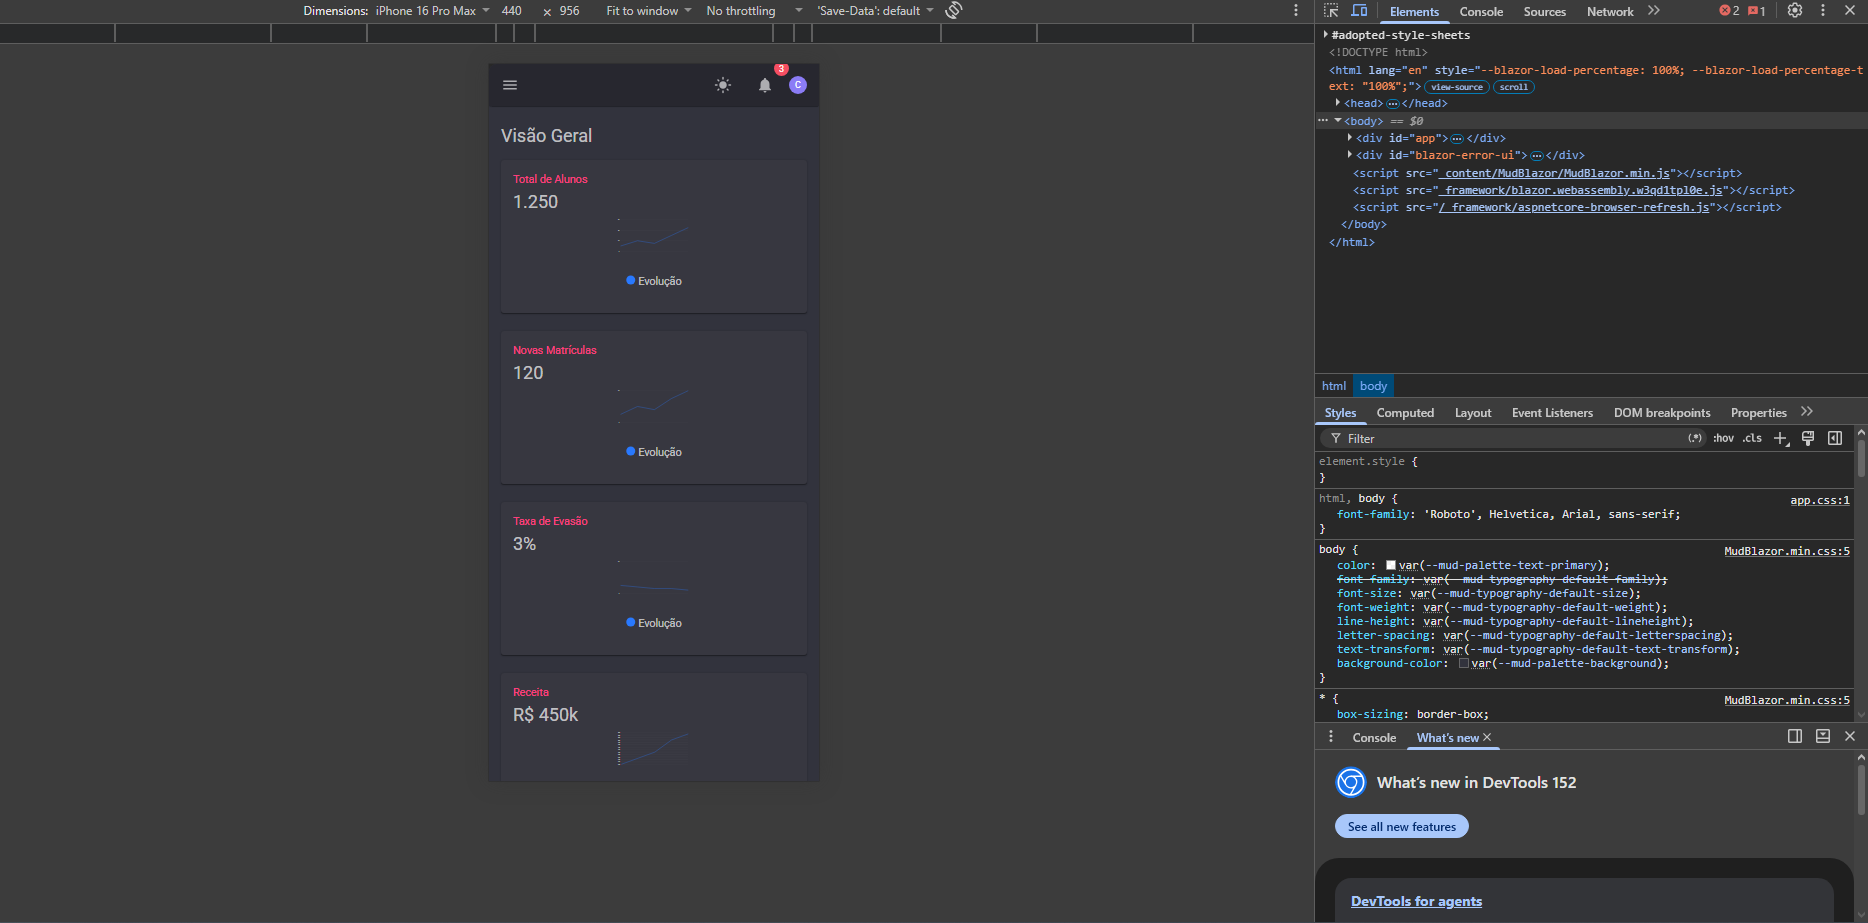
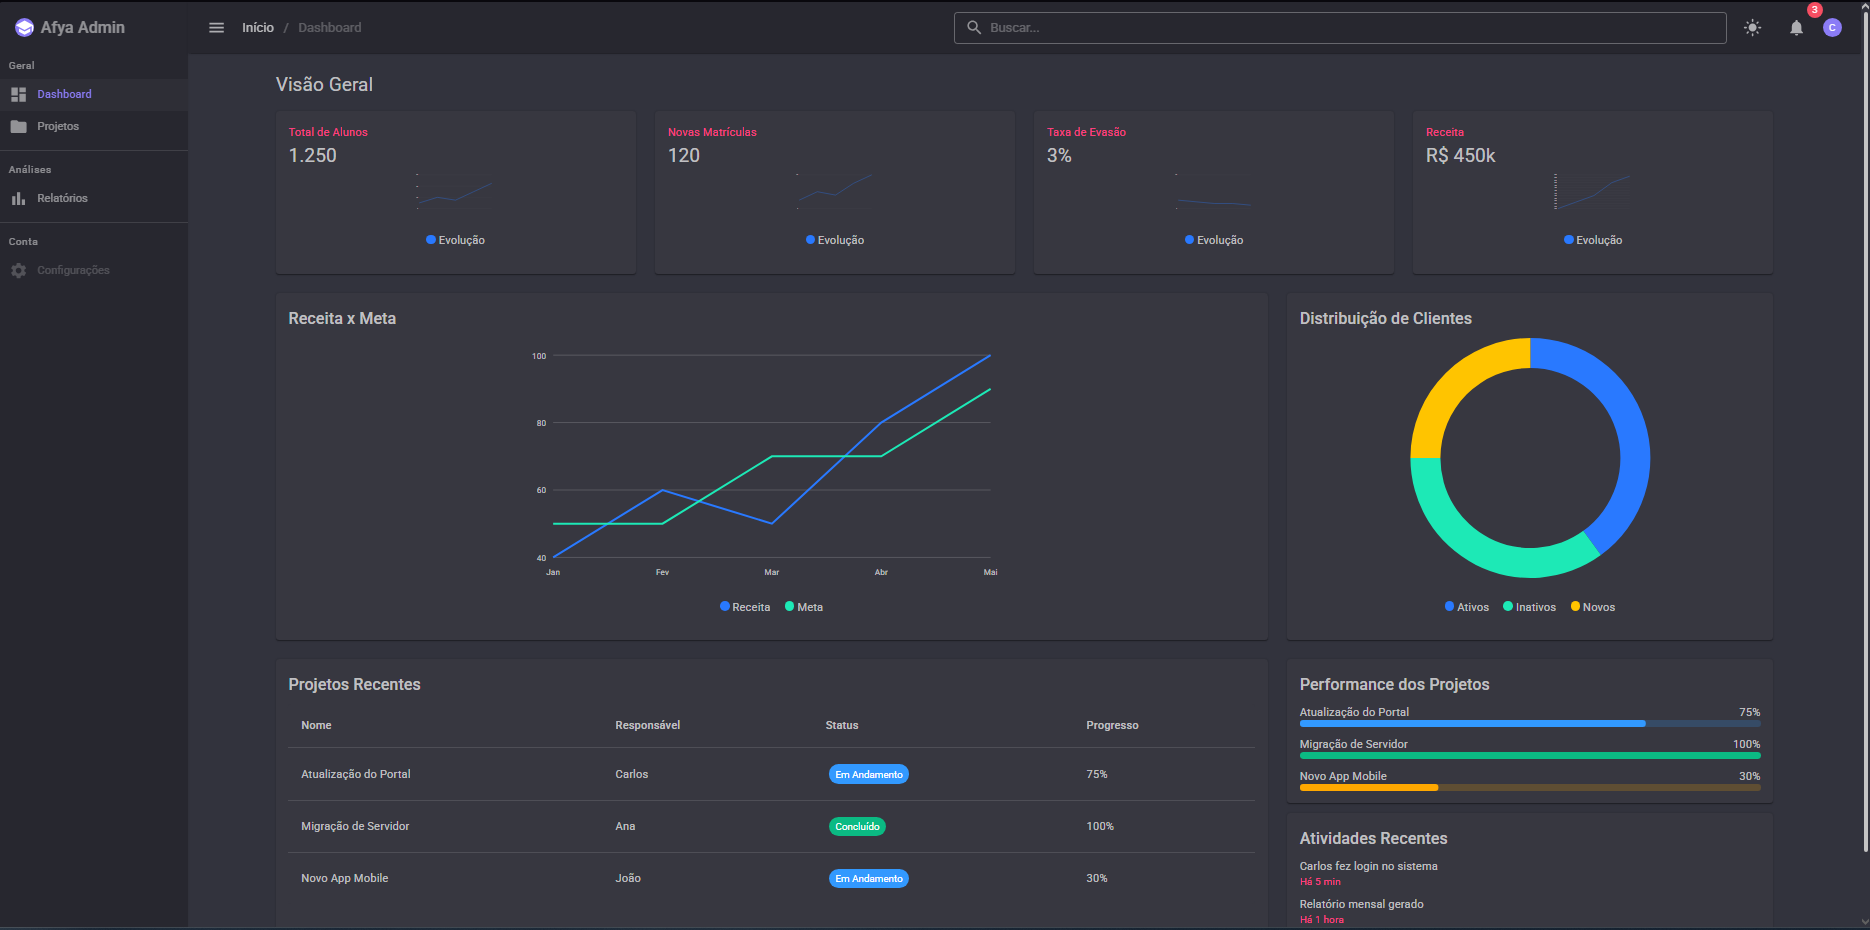
Completa README com respostas, prints e dificuldades

diff --git a/README.md b/README.md
@@ -2,19 +2,17 @@
 
 ## Identificação
 
-|                  |                                            |
-| ---------------- | ------------------------------------------ |
-| **Aluno(a)**     | Carlos Vitor (COMPLETAR com nome completo) |
-| **Matrícula**    | COMPLETAR                                  |
-| **Faculdade**    | Centro Universitário São Lucas             |
-| **Curso**        | Ciência da Computação                      |
-| **Disciplina**   | COMPLETAR                                  |
-| **Professor(a)** | COMPLETAR                                  |
-| **Semestre**     | 2026.2                                     |
+|                      |                                                       |
+| -------------------- | ----------------------------------------------------- |
+| **Aluno(a)**         | Carlos Vitor (COMPLETAR com nome completo)            |
+| **Faculdade**        | Centro Universitário São Lucas                        |
+| **Curso/Disciplina** | Ciência da Computação - Programação para sistemas web |
+| **Professor(a)**     | Liluyoud Cury de Lacerda                              |
+| **Semestre**         | 4º Semestre                                           |
 
 ## Objetivo do projeto
 
-<!-- ESCREVA COM SUAS PALAVRAS (2 a 4 parágrafos): o que é o projeto, para que serve a plataforma fictícia "Afya Pedagógico", o que a página mostra (KPIs, gráficos, tabela, atividades) e por que os dados são fictícios. -->
+O objetivo do projeto é entender como funciona um esqueleto do dashboard, e como podemos usar o mudblazor de uma forma pratica. A ideia que o professor quis passar, foi criar uma interface parecida com um sistema administrativo do AFYA, utilizando cards, graficos, tabelas... etc.
 
 ## Tecnologias utilizadas
 
@@ -28,7 +26,7 @@
 Requisito: **.NET SDK 10**.
 
 ```bash
-git clone https://github.com/SEU-USUARIO/afya-admin.git
+git clone https://github.com/Buzzidd/afya-admin.git
 cd afya-admin
 dotnet watch
 ```
@@ -53,7 +51,7 @@ A aplicação abre em `http://localhost:5137`.
 
 ![Inspeção do HTML no DevTools](docs/prints/devtools.png)
 
-<!-- ESCREVA o que o print mostra: qual componente você inspecionou (ex.: card de KPI), qual tag HTML o Blazor gerou, quais classes apareceram (mud-paper, mud-elevation-1, pa-4...) e como o Class="pa-4" que você escreveu no código aparece no HTML final. -->
+No print eu inspecionei um dos cards de KPI do dashboard. Foi possível ver que o componente do MudBlazor gera várias tags HTML e classes próprias, como mud-paper e classes relacionadas ao espaçamento e elevação. Também foi possível perceber como uma classe que coloquei no código, como pa-4, aparece no HTML final e é usada para definir o espaçamento do componente.
 
 ## Estrutura do projeto
 
@@ -108,52 +106,42 @@ afya-admin/
 
 ## O que aprendi
 
-<!-- RESPONDA COM SUAS PRÓPRIAS PALAVRAS, citando o SEU projeto (um parágrafo curto por pergunta). Respostas genéricas ou copiadas zeram o critério. -->
-
 **1. Como uma aplicação Blazor WebAssembly inicia no navegador? Qual é o papel do `index.html`, da `<div id="app">` e do `Program.cs`?**
 
-(sua resposta)
+Eu entendi que o index.html é a página inicial que o navegador carrega. Dentro dele existe a <div id="app">, que funciona como o espaço onde o Blazor vai colocar a aplicação. Já o Program.cs é onde ficam as configurações e os serviços que a aplicação precisa para funcionar. No meu projeto, os três trabalham juntos para iniciar o dashboard no navegador.
 
 **2. Qual é a diferença entre um Layout, uma Page e um Component neste projeto? Dê um exemplo de cada.**
 
-(sua resposta)
+Eu entendi que o Layout é a estrutura que fica em volta das páginas, como o menu lateral e a barra superior. No projeto, o MainLayout.razor é um exemplo disso. A Page é uma página que possui uma rota própria, como o Dashboard.razor. Já um Component é uma parte da interface que pode ser reutilizada, como o KpiCard.razor, que uso para mostrar os indicadores do dashboard.
 
 **3. O que é um `RenderFragment` e como o `DashboardCard` usa esse recurso para ser reutilizado por vários cards?**
-
-(sua resposta)
+O RenderFragment permite passar um conteúdo de interface para dentro de um componente. No meu projeto, o DashboardCard recebe esse conteúdo através do ChildContent. Com isso, eu consigo criar um card padrão e colocar diferentes conteúdos dentro dele sem precisar criar um componente novo para cada tipo de card.
 
 **4. Como funciona o `@bind-Valor` no `SeletorPeriodo`? Qual é o papel do `ValorChanged`?**
-
-(sua resposta)
+O @bind-Valor facilita a comunicação entre o componente e a página. Quando o valor do período muda no SeletorPeriodo, o ValorChanged é usado para avisar o componente que está usando ele sobre essa mudança. Assim, a página consegue receber o novo valor sem precisar fazer toda a comunicação manualmente.
 
 **5. Por que os dados ficam na pasta `Data`, separados dos componentes? Que vantagem isso traz se, no futuro, os dados vierem de uma API?**
-
-(sua resposta)
+Os dados ficam separados para não misturar a parte visual com a parte que fornece as informações. No meu projeto eu usei dados fictícios no FakeData.cs, enquanto os componentes ficam responsáveis por mostrar esses dados. Se no futuro eu usar uma API, posso trocar a fonte dos dados sem precisar refazer toda a interface do dashboard.
 
 **6. Como o `MudGrid` com `xs`, `sm` e `lg` faz os cards de KPI se reorganizarem em telas de tamanhos diferentes?**
-
-(sua resposta)
+O MudGrid permite definir quantas colunas os componentes ocupam dependendo do tamanho da tela. O xs é usado para telas menores, o sm para telas pequenas ou médias e o lg para telas maiores. Dessa forma, os cards conseguem se reorganizar automaticamente e o dashboard fica mais adequado para computador e celular.
 
 **7. Como foi possível estilizar a página inteira sem escrever CSS? Explique o papel do tema (`MudTheme`) e das classes utilitárias.**
-
-(sua resposta)
+Isso foi possível porque o MudBlazor já possui vários estilos e componentes prontos. O MudTheme permite definir coisas como cores e aparência geral da aplicação. Além disso, as classes utilitárias, como pa-4, ajudam a controlar espaçamento, alinhamento e outras características sem precisar criar uma classe CSS para cada situação. Isso facilitou bastante a criação do dashboard.
 
 **8. Por que o namespace do projeto é `afya_admin` e não `afya-admin`?**
-
-(sua resposta)
+Isso acontece porque o nome do projeto pode ter hífen, mas o hífen não pode ser usado da mesma forma em um namespace do C#. Por isso o .NET transforma o nome afya-admin em afya_admin para utilizar como namespace no código.
 
 ## Dificuldades e soluções
 
-<!-- Descreva pelo menos DOIS problemas reais que você enfrentou e como resolveu cada um, com suas palavras. -->
+**Dificuldade 1:** Outra dificuldade foi ao começar a fazer o esqueleto desse codigo, não lembrava que o C# é necessário informar o tipo de dado que ela irá armazenar utilizando os sinais <>, como List<string>, List<Kpi> ou List<Projeto>. Inicialmente, utilizei apenas List, o que gerou um erro durante a compilação.
 
-**Dificuldade 1:** (descreva o problema)
+**Solução:**
 
-**Solução:** (como resolveu)
+**Dificuldade 2:** Outra dificuldade foi quando eu estava fazendo o esqueleto do codigo, demorei pra identificar qual versão do mudblazor eu estava usando, o que causava muitos erros ao salvar e tentar por o site no ar.
 
-**Dificuldade 2:** (descreva o problema)
-
-**Solução:** (como resolveu)
+**Solução:** com auxilio do CLAUDE IA, consegui identificar através do terminal, a versão do mudblazor que eu estava utilizando, que era a mudblazor v9.
 
 ## Melhorias futuras (opcional)
 
-<!-- O que você implementaria a seguir? -->
+Como melhoria futura, eu poderia substituir os dados fictícios por dados vindos de uma API, adicionar autenticação de usuários e criar mais páginas para o sistema. Também seria interessante deixar os gráficos realmente dinâmicos e permitir que o usuário filtre os dados por período.
